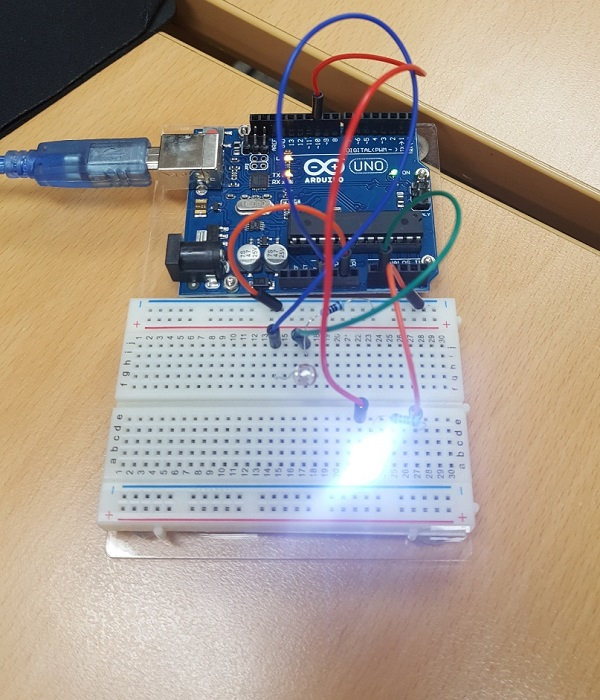
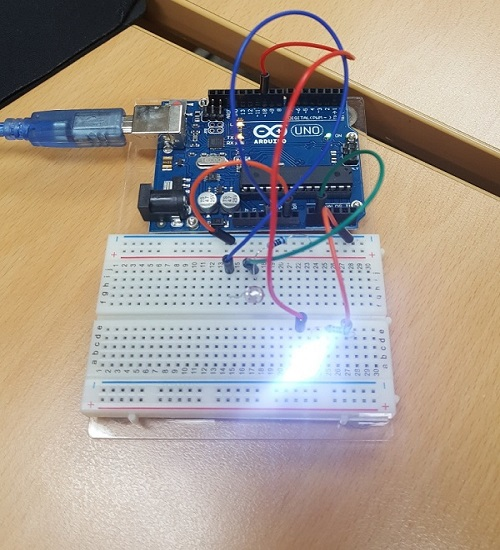
j

diff --git a/정과프/0004_조도센서/CDS.md b/정과프/0004_조도센서/CDS.md
@@ -29,7 +29,7 @@
 # 3.CDS_LED_analog
 
 ## 회로도
-- digital 회로에서 LED에서 13번에서 10번으로 이동시킨다.
+- digital 회로에서 LED를 13번에서 10번으로 이동시킨다.
 
 ## sketch Code
 - 코드는 폴더 내의 CDS_LED_analog_sketch 코드를 보세요.
